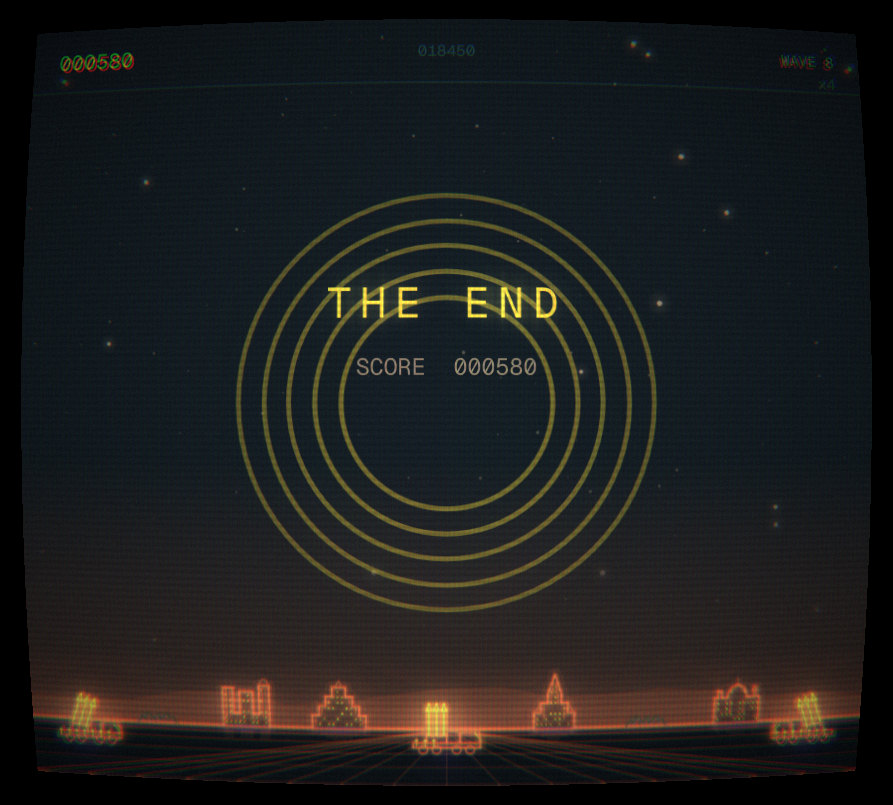
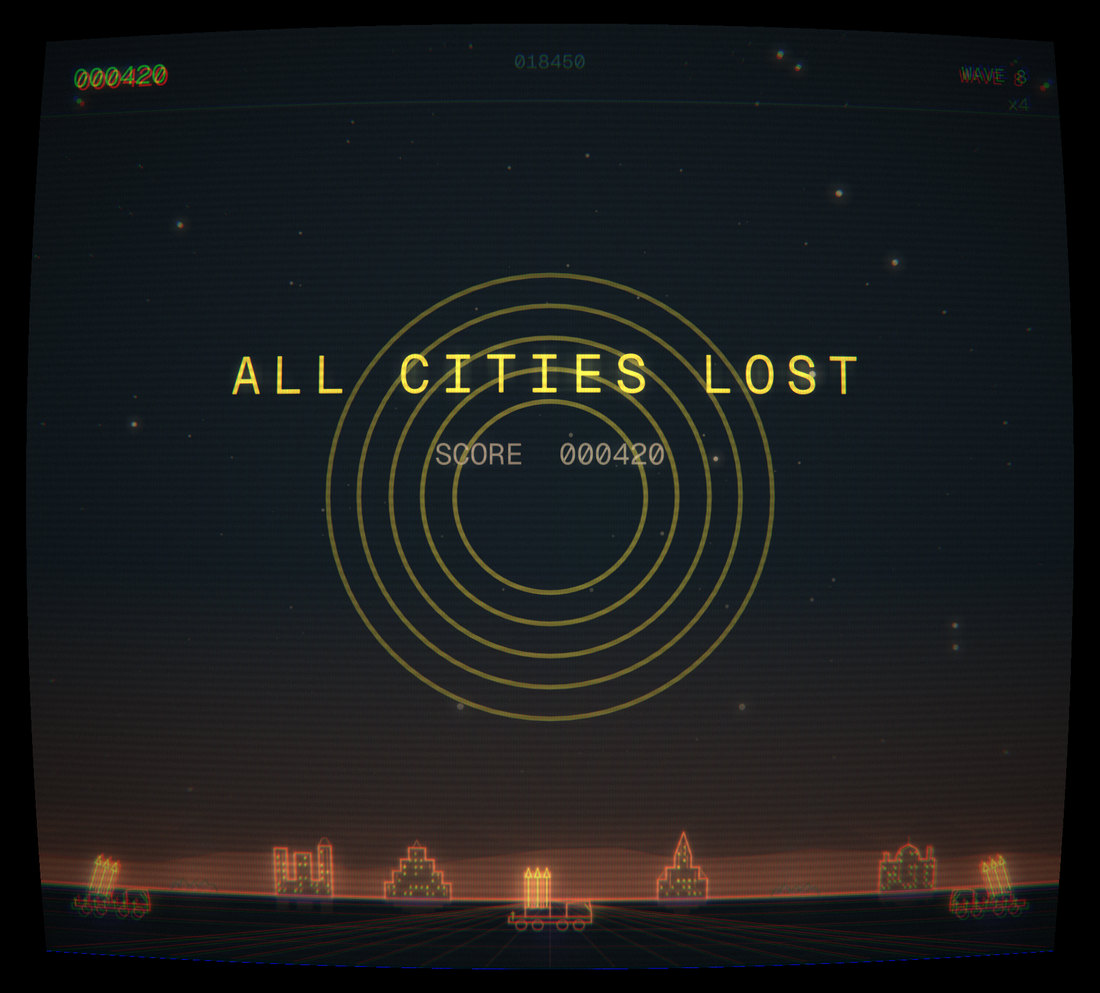
Remove two elements carried over verbatim from the arcade original
An audit of what this owes the genre turned up two things that were copies
rather than mechanics, both inherited from the LÖVE version:

  * The launchers were named ALPHA / DELTA / OMEGA -- the arcade's own three
    base names, all three, in the same left/centre/right order. They are now
    BRAVO / KILO / SIERRA. Rules are not copyrightable; a specific set of three
    proper nouns is a different matter.
  * The game-over screen read THE END, which is that game's own game-over text
    rather than a generic phrase. It now reads ALL CITIES LOST.

The README's originality note claimed nothing here was derived from any
commercial game, which given the above was not true. It now says what is
actually the case: the rules come from the genre and are nobody's property,
while everything visible or audible -- outlines, sky, sounds, shaders -- is
this project's own.

diff --git a/game/Batteries.js b/game/Batteries.js
@@ -1,7 +1,7 @@
 .import "World.js" as World
 .import "Draw.js" as Draw
 
-// Alpha, Delta and Omega -- three launchers on the floor below the horizon.
+// Bravo, Kilo and Sierra -- three launchers on the floor below the horizon.
 //
 // The trucks are the original's drawing, transcribed: flatbed, cab leaning
 // toward the middle of the screen, four wheels, a turret offset away from the
@@ -14,10 +14,15 @@
 // the battery is live, the last two rounds turn the alarm colour, and a
 // destroyed battery burns instead of simply being redrawn as scrap.
 
+// Callsigns, not the arcade's. The LÖVE original carried Atari's own three
+// base names across verbatim and in the same order, which is a far more
+// identifiable thing to have copied than any rule -- rules are not
+// copyrightable and a specific set of three proper nouns is evidence. These
+// keep the military texture and share nothing.
 var DEFS = [
-    { name: "ALPHA", x: 18,  speed: 180, tilt:  0.35, dir:  1 },
-    { name: "DELTA", x: 128, speed: 420, tilt:  0.00, dir:  1 },
-    { name: "OMEGA", x: 238, speed: 180, tilt: -0.35, dir: -1 }
+    { name: "BRAVO",  x: 18,  speed: 180, tilt:  0.35, dir:  1 },
+    { name: "KILO",   x: 128, speed: 420, tilt:  0.00, dir:  1 },
+    { name: "SIERRA", x: 238, speed: 180, tilt: -0.35, dir: -1 }
 ]
 
 var AMMO_PER_WAVE = 10
@@ -77,11 +82,11 @@ function fire(index) {
     return true
 }
 
-// Delta first if it has anything left -- it is the fast one and the reason to
+// Kilo first if it has anything left -- it is the fast one and the reason to
 // aim with the mouse at all. Otherwise whichever flank is nearer the click.
 function findNearest(gx) {
-    var delta = batteries[1]
-    if (delta && delta.alive && delta.ammo > 0) return delta
+    var centre = batteries[1]
+    if (centre && centre.alive && centre.ammo > 0) return centre
 
     var best = null, bestDist = Infinity
     var flanks = [0, 2]

diff --git a/game/GameOverScreen.qml b/game/GameOverScreen.qml
@@ -7,8 +7,10 @@ import QtQuick
 // then the prompt. All three at once lands on top of your own explosion and
 // reads as the game closing the window on you.
 //
-// "THE END" rather than "GAME OVER", which is what the original said, and is a
-// better line: the cities are gone and there is nobody left to play for.
+// The line is "ALL CITIES LOST", which is simply what has happened. The LÖVE
+// original said "THE END" -- which is the arcade's own game-over screen text,
+// carried across without anyone noticing it was a quotation rather than a
+// phrase. This says the same thing in its own words.
 Item {
     id: root
 
@@ -43,7 +45,7 @@ Item {
         y: parent.height * 0.34
         horizontalAlignment: Text.AlignHCenter
         visible: root.game.gameOverTimer > 0.5
-        text: "THE END"
+        text: "ALL CITIES LOST"
         color: root.game.pal.bright
         font.family: root.game.fontFamily
         font.pixelSize: root.game.fontLarge

diff --git a/game/Game.qml b/game/Game.qml
@@ -863,7 +863,7 @@ Item {
                 if (game.phase !== "playing") return
                 var p = toField(e.x, e.y)
                 Crosshair.setPosition(p.x, p.y)
-                // Right-click fires the centre launcher specifically -- Delta
+                // Right-click fires the centre launcher specifically -- Kilo
                 // is three times faster than the flanks and worth being able
                 // to spend deliberately rather than only when it is nearest.
                 if (e.button === Qt.RightButton) game.fireFrom(1)

diff --git a/README.md b/README.md
@@ -41,18 +41,18 @@ sudo pacman -S qt6-multimedia
 |-------|--------|
 | **Mouse** | Aim |
 | **Left click** | Fire from the best-placed launcher |
-| **Right click** | Fire from Delta specifically |
-| **A** / **1** | Fire from Alpha (left) |
-| **S** / **2** | Fire from Delta (centre, three times faster) |
-| **D** / **3** | Fire from Omega (right) |
+| **Right click** | Fire from Kilo specifically |
+| **A** / **1** | Fire from Bravo (left) |
+| **S** / **2** | Fire from Kilo (centre, three times faster) |
+| **D** / **3** | Fire from Sierra (right) |
 | **Enter** | Start, and dismiss the end screens |
 | **F1** | Curved-screen effect on or off |
 | **M** | Mute |
 | **Escape** | Close the cabinet |
 
-Delta is the fast one and it is the one you will want when something is already
-low. Alpha and Omega are slower but they are closer to the edges, and a warhead
-falling on city six is not Delta's problem to solve.
+Kilo is the fast one and it is the one you will want when something is already
+low. Bravo and Sierra are slower but they are closer to the edges, and a warhead
+falling on city six is not Kilo's problem to solve.
 
 Chain your explosions. A fireball stays at full size for half a second, which is
 long enough to catch the next warhead through it — that is where the scores are.
@@ -91,7 +91,7 @@ while you play, so you can decide whether a round is worth spending.
 |---|---|
 | ![Title](screenshots/01-title.jpg) | ![Wave eight](screenshots/03-wave-eight.jpg) |
 | ![Tally](screenshots/04-tally.jpg) | ![High score](screenshots/06-high-score.jpg) |
-| ![Chain reaction](screenshots/08-chain.jpg) | ![The end](screenshots/05-game-over.jpg) |
+| ![Chain reaction](screenshots/08-chain.jpg) | ![Game over](screenshots/05-game-over.jpg) |
 
 ## Where things are kept
 
@@ -105,9 +105,15 @@ High scores, the mute setting and the screen setting live in
 
 ## Originality
 
-Nothing here is derived from any commercial game. The city outlines were drawn
-by hand, the sky is generated at runtime, the ten sounds are synthesised by the
-script in `audio/`, and the shaders were written for this. There is no
+This is a missile-defence game, and it is not the first one. What it owes to the
+genre are its rules — defend cities, three launchers, warheads that split,
+explosions that chain — and rules are not anyone's property.
+
+Everything you can see or hear is this project's own. The city outlines and the
+launcher were drawn by hand in the game's own coordinate space, the sky and the
+starfield are generated at runtime, the ten sounds are synthesised by
+`audio/make_sounds.py`, and the three shaders were written for this. No code,
+art, audio or text has been taken from any commercial game, and there is no
 affiliation with, or endorsement by, any game publisher.
 
 ## License
